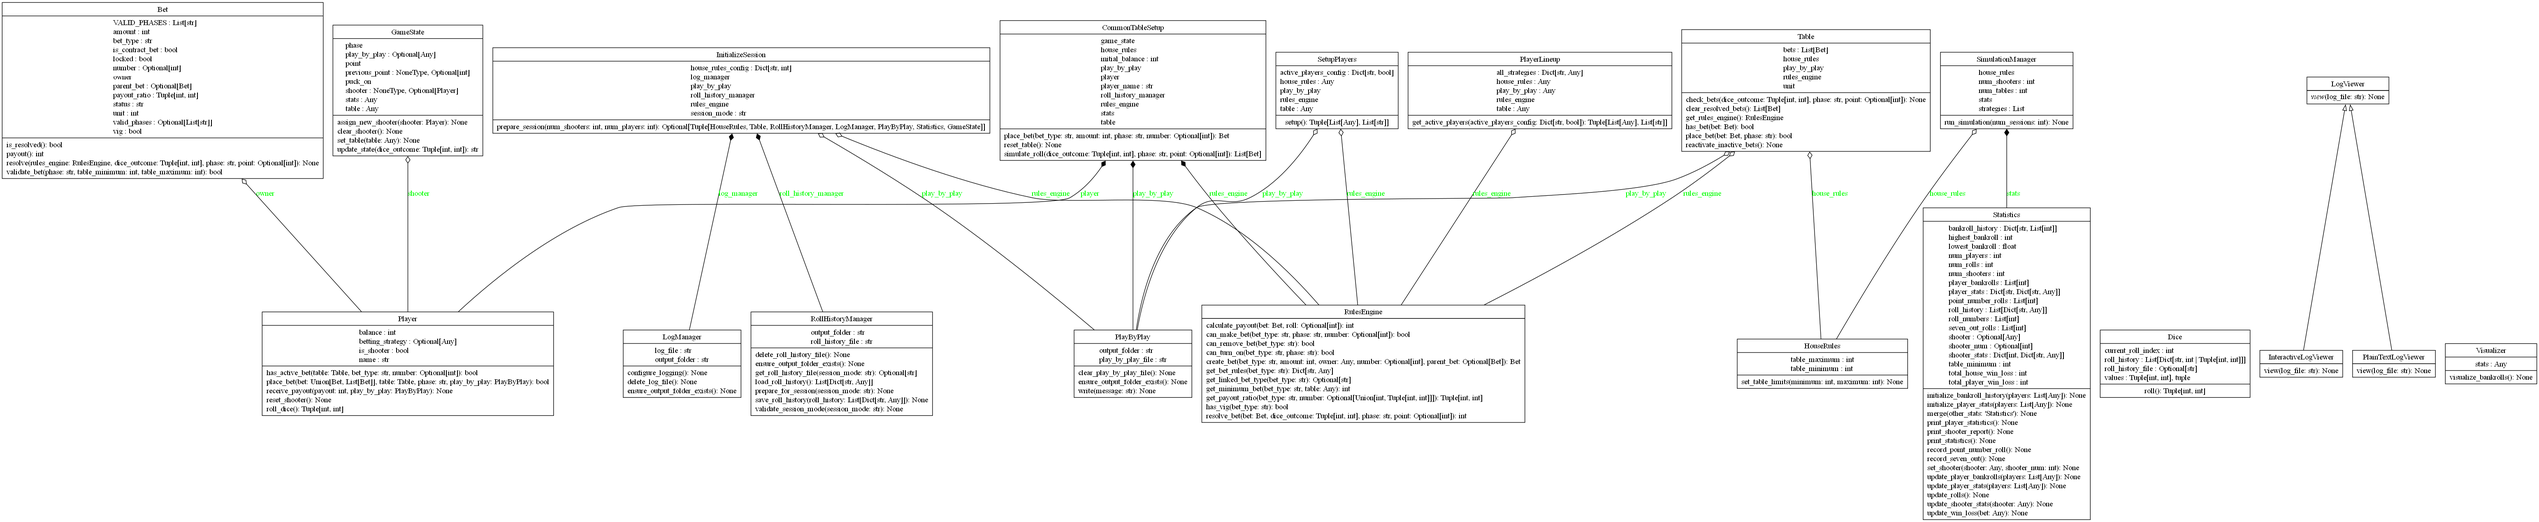
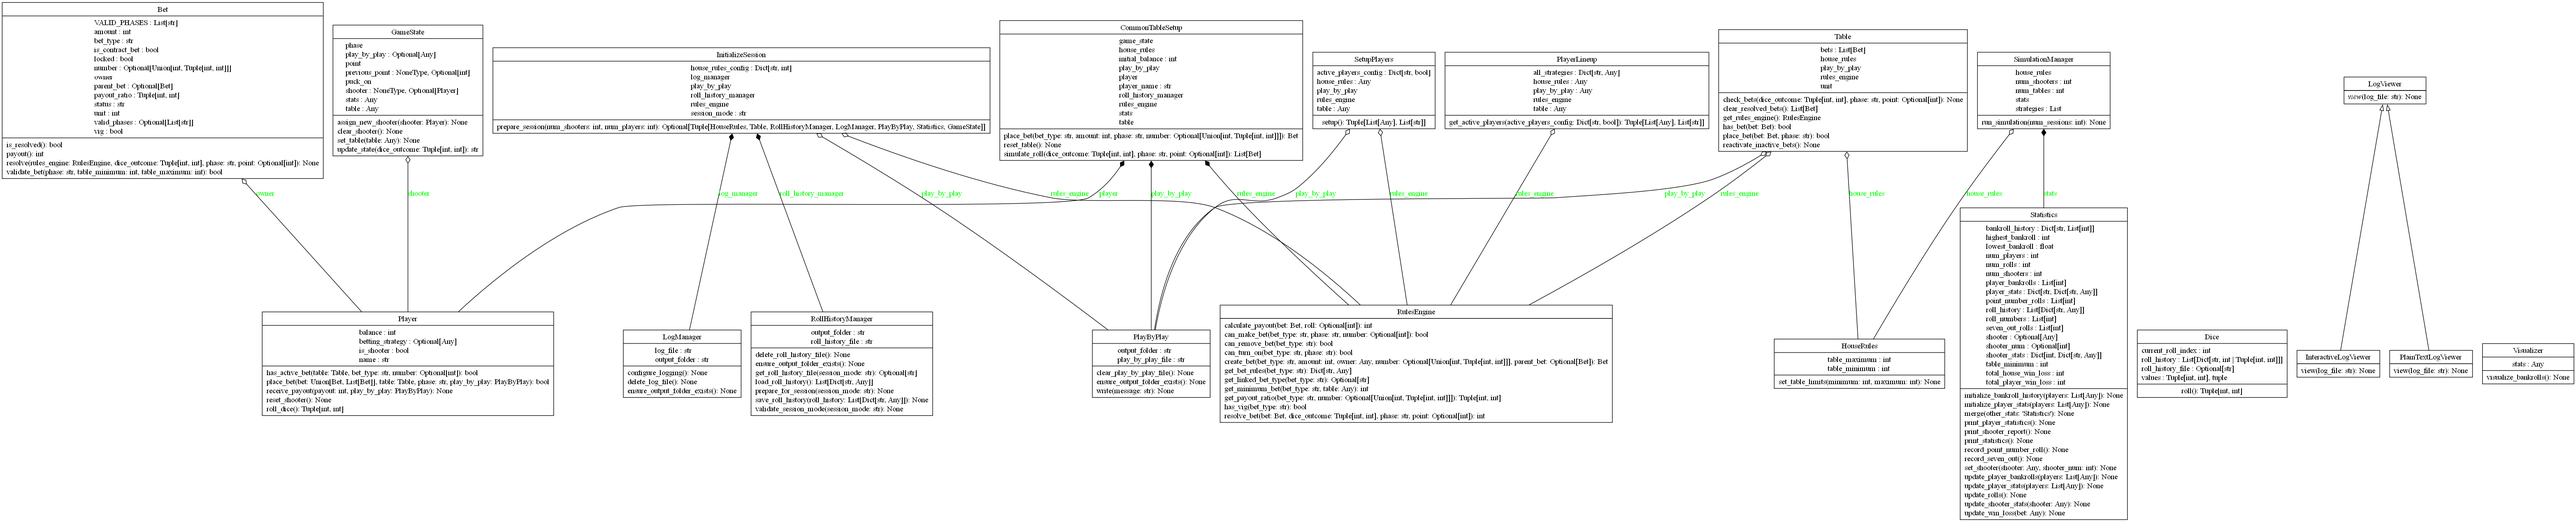
Bets Can be on Number or Tuple

diff --git a/craps/bet.py b/craps/bet.py
@@ -1,5 +1,5 @@
 from __future__ import annotations  # Enable forward references for type hints
-from typing import TYPE_CHECKING, List, Optional, Tuple
+from typing import TYPE_CHECKING, List, Optional, Tuple, Union
 import logging
 
 if TYPE_CHECKING:
@@ -21,24 +21,14 @@ class Bet:
         vig: bool = False,  # Updated to a boolean
         unit: int = 1,
         valid_phases: Optional[List[str]] = None,
-        number: Optional[int] = None,
+        number: Optional[Union[int, Tuple[int, int]]] = None,  # ✅ Now supports tuples for Hop bets
         parent_bet: Optional[Bet] = None,
         is_contract_bet: bool = False
     ) -> None:
         """
         Initializes a Bet.
 
-        :param bet_type: Type of bet (e.g., "Pass Line", "Come", "Place 6").
-        :param amount: Amount wagered.
-        :param owner: The player who owns the bet.
-        :param payout_ratio: Multiplier for payouts as a tuple (e.g., (3, 2) for 3:2 odds).
-        :param locked: Whether the bet is locked and cannot be removed.
-        :param vig: Whether the bet has a vigorish (commission).
-        :param unit: Minimum bet unit.
-        :param valid_phases: Game phases where this bet is valid.
-        :param number: The number associated with the bet (if applicable).
-        :param parent_bet: Reference to the original bet (for odds bets).
-        :param is_contract_bet: Whether the bet is a contract bet (cannot be removed).
+        :param number: The number associated with the bet (e.g., 6 for Place 6 or (2,5) for Hop bets).
         """
         self.bet_type: str = bet_type
         self.amount: int = amount
@@ -48,7 +38,7 @@ class Bet:
         self.vig: bool = vig  # Vig is now a boolean
         self.unit: int = unit
         self.valid_phases: List[str] = valid_phases if valid_phases is not None else self.VALID_PHASES
-        self.number: Optional[int] = number
+        self.number: Optional[Union[int, Tuple[int, int]]] = number  # ✅ Now supports both int and tuple
         self.status: str = "active"
         self.parent_bet: Optional[Bet] = parent_bet
         self.is_contract_bet: bool = is_contract_bet  # Whether the bet is a contract bet

diff --git a/craps/common.py b/craps/common.py
@@ -1,4 +1,4 @@
-from typing import Optional, List, Tuple
+from typing import Optional, List, Tuple, Union
 from craps.house_rules import HouseRules
 from craps.table import Table
 from craps.play_by_play import PlayByPlay
@@ -42,14 +42,14 @@ class CommonTableSetup:
         # ✅ Setup Gamestate
         self.game_state.set_table(self.table)
 
-    def place_bet(self, bet_type: str, amount: int, phase: str = "come-out", number: Optional[int] = None) -> Bet:
+    def place_bet(self, bet_type: str, amount: int, phase: str = "come-out", number: Optional[Union[int, Tuple[int, int]]] = None) -> Bet:
         """
         Place a bet on the table for the player.
 
         :param bet_type: The type of bet (e.g., "Field", "Pass Line").
         :param amount: The amount of the bet.
         :param phase: The current game phase ("come-out" or "point").
-        :param number: The number associated with the bet (e.g., 6 for Place 6).
+        :param number: The number associated with the bet (e.g., 6 for Place 6 or (2,5) for Hop bets).
         :return: The created bet.
         """
         if bet_type == "Come Odds":
